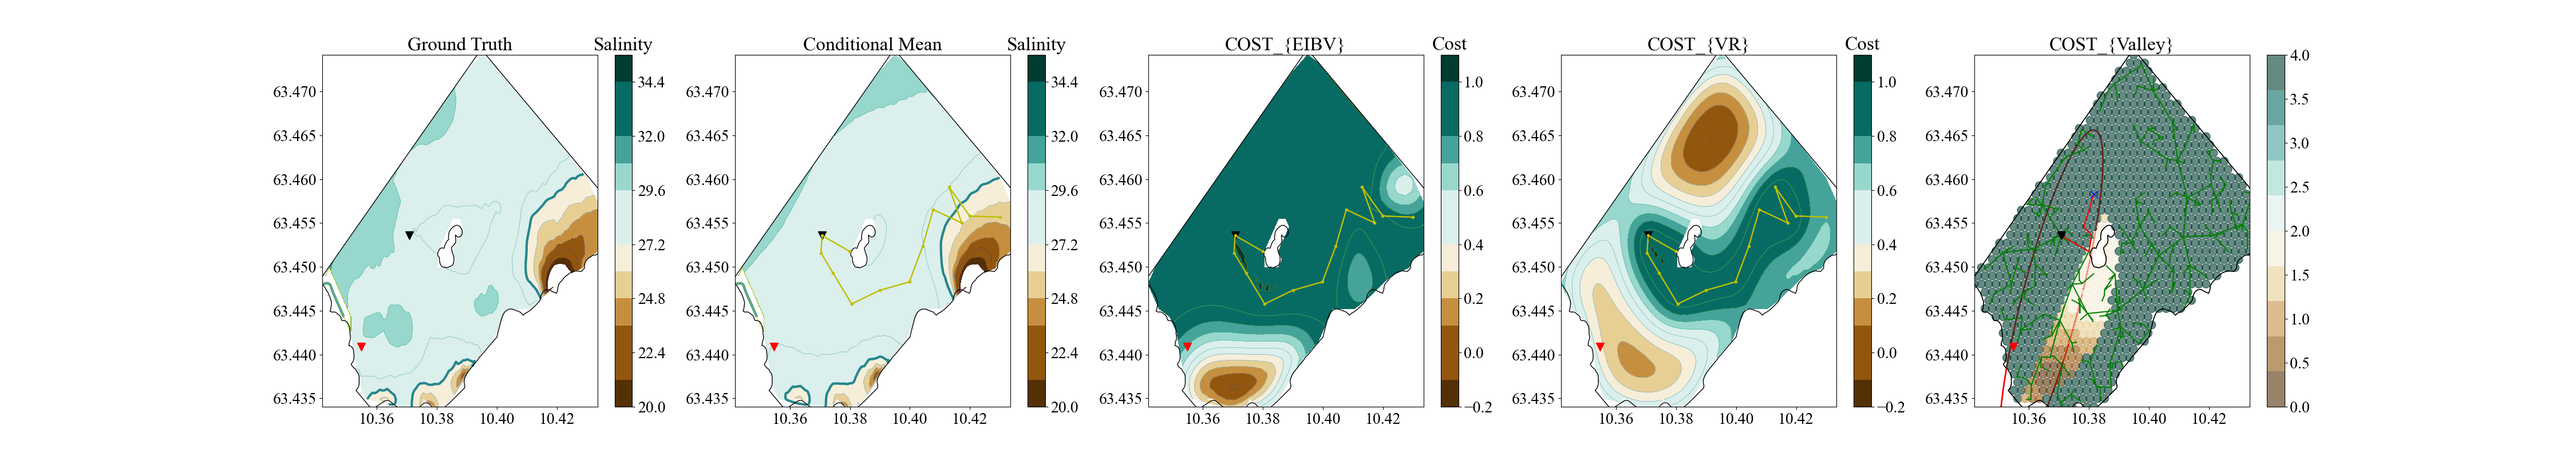
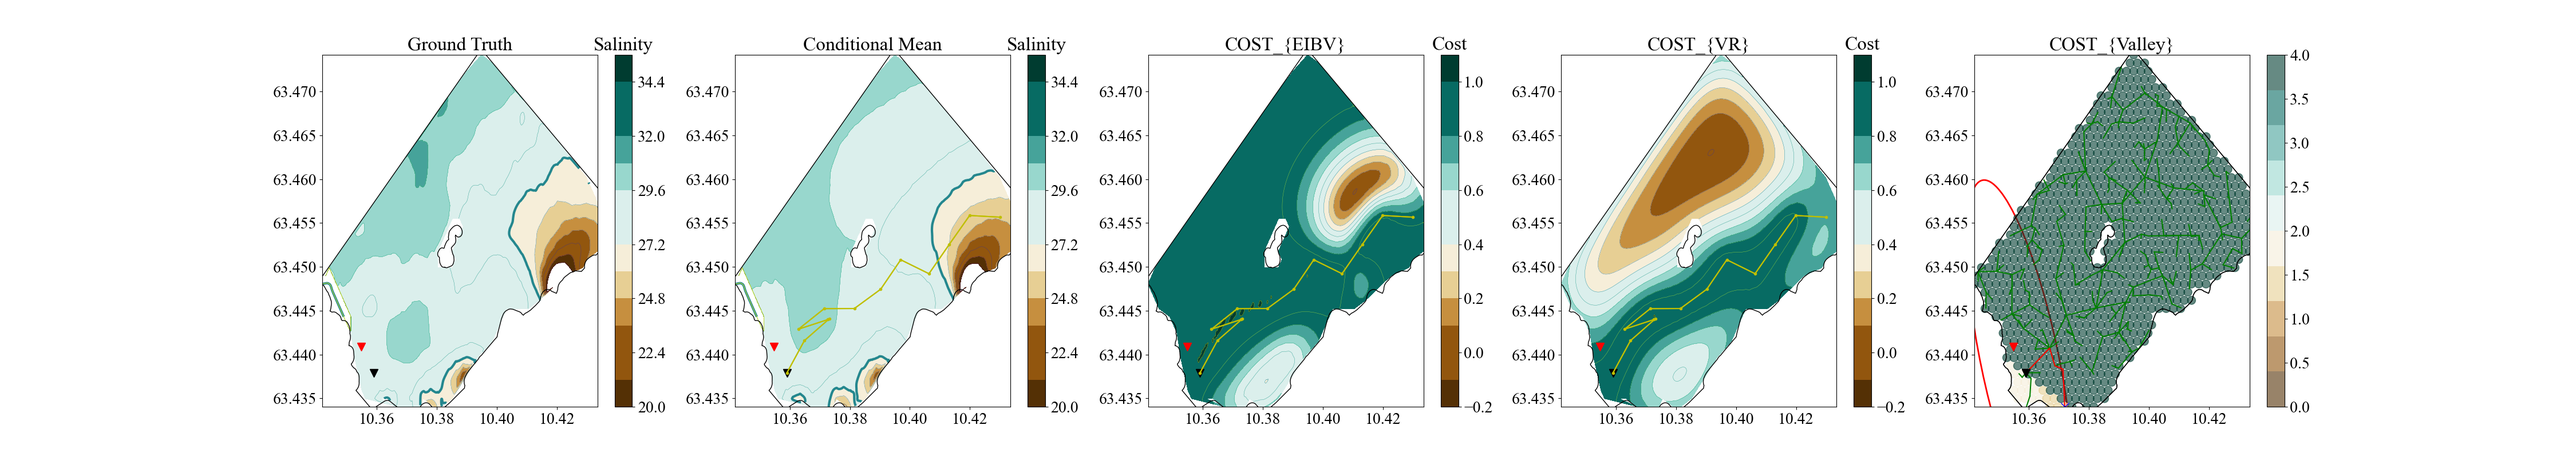
rrt

diff --git a/Simulation_2DNidelva/PlanningStrategies/RRTStar.py b/Simulation_2DNidelva/PlanningStrategies/RRTStar.py
@@ -27,26 +27,35 @@ class RRTStar:
 
     def expand_trees(self):
         self.nodes.append(self.starting_node)
-        t1 = time.time()
+        ts = time.time()
         for i in range(self.knowledge.maximum_iteration):
-            # print("iteration: ", i)
+            print("iteration: ", i)
+            t1 = time.time()
             if np.random.rand() <= self.knowledge.goal_sample_rate:
                 new_location = self.knowledge.ending_location
             else:
-                if self.knowledge.budget_ellipse_b < BUDGET_ELLIPSE_B_MARGIN_Tree:
-                    # print("Here comes new sampling distribution!")
-                    new_location = self.get_new_location_within_budget_ellipse()
-                    self.radius_neighbour = RADIUS_NEIGHBOUR
-                else:
-                    new_location = self.get_new_location()
+                # if self.knowledge.budget_ellipse_b < BUDGET_ELLIPSE_B_MARGIN_Tree:
+                #     # print("Here comes new sampling distribution!")
+                #     new_location = self.get_new_location_within_budget_ellipse()
+                #     self.radius_neighbour = RADIUS_NEIGHBOUR
+                # else:
+                new_location = self.get_new_location()
+            t2 = time.time()
+            print("I - getting new location takes: ", t2 - t1)
 
+            t1 = time.time()
             nearest_node = self.get_nearest_node(self.nodes, new_location)
             next_node = self.get_next_node(nearest_node, new_location)
+            t2 = time.time()
+            print("II - steering takes: ", t2 - t1)
 
             if self.is_node_within_obstacle(next_node):
                 continue
 
+            t1 = time.time()
             next_node, nearest_node = self.rewire_tree(next_node, nearest_node)
+            t2 = time.time()
+            print("III - rewiring takes: ", t2 - t1)
 
             if self.is_path_intersect_with_obstacles(nearest_node, next_node):
                 continue
@@ -55,8 +64,8 @@ class RRTStar:
                 self.ending_node.parent = next_node
             else:
                 self.nodes.append(next_node)
-        t2 = time.time()
-        print("Finished tree expansion, time consumed: ", t2 - t1)
+        te = time.time()
+        print("Finished tree expansion, time consumed: ", te - ts)
 
     def get_bigger_box(self):
         self.box_lat_min, self.box_lon_min = map(np.amin, [self.knowledge.polygon_border[:, 0],
@@ -148,8 +157,8 @@ class RRTStar:
 
     def get_cost_between_nodes(self, node1, node2):
         cost = (node1.cost +
-                self.get_distance_between_nodes(node1, node2) +
-                self.get_cost_from_cost_valley(node1, node2))
+                self.get_distance_between_nodes(node1, node2))
+                # self.get_cost_from_cost_valley(node1, node2))
         return cost
 
     def get_cost_from_cost_valley(self, node1, node2):
@@ -202,6 +211,7 @@ class RRTStar:
         self.trajectory = np.array(self.trajectory)
 
     def plot_tree(self):
+        print("Here comes the plotting")
         plt.plot(self.knowledge.polygon_border[:, 1], self.knowledge.polygon_border[:, 0], 'k-', linewidth=1)
         plt.plot(self.knowledge.polygon_obstacle[:, 1], self.knowledge.polygon_obstacle[:, 0], 'k-', linewidth=1)
         for node in self.nodes:
@@ -212,17 +222,18 @@ class RRTStar:
         plt.plot(trajectory[:, 1], trajectory[:, 0], "-r")
         plt.plot(self.knowledge.starting_location.lon, self.knowledge.starting_location.lat, 'kv', ms=10)
         plt.plot(self.knowledge.ending_location.lon, self.knowledge.ending_location.lat, 'bx', ms=10)
-        budget_ellipse_lat_max, budget_ellipse_lon_max = xy2latlon(self.knowledge.budget_ellipse_b,
-                                                                   self.knowledge.budget_ellipse_a,
-                                                                   self.knowledge.budget_middle_location.lat,
-                                                                   self.knowledge.budget_middle_location.lon)
-        width = 2 * (budget_ellipse_lon_max - self.knowledge.budget_middle_location.lon)
-        height = 2 * (budget_ellipse_lat_max - self.knowledge.budget_middle_location.lat)
-        middle_location = self.knowledge.budget_middle_location
-        ellipse = Ellipse(xy=(middle_location.lon, middle_location.lat), width=width, height=height,
-                          angle=math.degrees(self.knowledge.budget_ellipse_angle),
-                          edgecolor='r', fc='None', lw=2)
-        plt.gca().add_patch(ellipse)
+
+        # budget_ellipse_lat_max, budget_ellipse_lon_max = xy2latlon(self.knowledge.budget_ellipse_b,
+        #                                                            self.knowledge.budget_ellipse_a,
+        #                                                            self.knowledge.budget_middle_location.lat,
+        #                                                            self.knowledge.budget_middle_location.lon)
+        # width = 2 * (budget_ellipse_lon_max - self.knowledge.budget_middle_location.lon)
+        # height = 2 * (budget_ellipse_lat_max - self.knowledge.budget_middle_location.lat)
+        # middle_location = self.knowledge.budget_middle_location
+        # ellipse = Ellipse(xy=(middle_location.lon, middle_location.lat), width=width, height=height,
+        #                   angle=math.degrees(self.knowledge.budget_ellipse_angle),
+        #                   edgecolor='r', fc='None', lw=2)
+        # plt.gca().add_patch(ellipse)
         # plt.grid(which='minor', alpha=0.2)
         # plt.title("rrt*")
         # plt.savefig(FIGPATH + "T_{:04d}.png".format(self.counter_fig))

diff --git a/Simulation_2DSquare/PlanningStrategies/RRTStar.py b/Simulation_2DSquare/PlanningStrategies/RRTStar.py
@@ -36,12 +36,12 @@ class RRTStar:
             if np.random.rand() <= self.knowledge.goal_sample_rate:
                 new_location = self.knowledge.ending_location
             else:
-                if self.knowledge.gp_kernel.budget_ellipse_b < BUDGET_ELLIPSE_B_MARGIN_Tree:
-                    # print("Here comes new sampling distribution!")
-                    new_location = self.get_new_location_within_budget_ellipse()
-                    self.radius_neighbour = RADIUS_NEIGHBOUR
-                else:
-                    new_location = self.get_new_location()
+                # if self.knowledge.gp_kernel.budget_ellipse_b < BUDGET_ELLIPSE_B_MARGIN_Tree:
+                #     # print("Here comes new sampling distribution!")
+                #     new_location = self.get_new_location_within_budget_ellipse()
+                #     self.radius_neighbour = RADIUS_NEIGHBOUR
+                # else:
+                new_location = self.get_new_location()
 
             nearest_node = self.get_nearest_node(self.nodes, new_location)
             next_node = self.get_next_node(nearest_node, new_location)
@@ -139,8 +139,8 @@ class RRTStar:
 
     def get_cost_between_nodes(self, node1, node2):
         cost = (node1.cost +
-                self.get_distance_between_nodes(node1, node2) +
-                self.get_cost_from_cost_valley(node1, node2))
+                self.get_distance_between_nodes(node1, node2))
+                # self.get_cost_from_cost_valley(node1, node2))
         return cost
 
     def get_cost_from_cost_valley(self, node1, node2):

diff --git a/Simulation_2DNidelva/Test/PlanningStrategies/test_rrt*.py b/Simulation_2DNidelva/Test/PlanningStrategies/test_rrt*.py
@@ -1,4 +1,4 @@
-
+import os
 
 from GOOGLE.Simulation_2DNidelva.PlanningStrategies.RRTStar import RRTStar
 from GOOGLE.Simulation_2DNidelva.Tree.Knowledge import Knowledge
@@ -6,11 +6,11 @@ from GOOGLE.Simulation_2DNidelva.Tree.Location import Location
 from usr_func import *
 
 
-PATH_OPERATION_AREA = "/Users/yaoling/OneDrive - NTNU/MASCOT_PhD/Projects/GOOGLE/Simulation_2DNidelva/Config/Polygon_border.csv"
-PATH_MUNKHOLMEN = "/Users/yaoling/OneDrive - NTNU/MASCOT_PhD/Projects/GOOGLE/Simulation_2DNidelva/Config/Polygon_obstacle.csv"
+PATH_OPERATION_AREA = os.getcwd() + "/GOOGLE/Simulation_2DNidelva/Config/Polygon_border.csv"
+PATH_MUNKHOLMEN = os.getcwd() + "/GOOGLE/Simulation_2DNidelva/Config/Polygon_obstacle.csv"
 DISTANCE_STEPSIZE = 500
 DISTANCE_TOLERANCE = 500
-DISTANCE_NEIGHBOUR = 600
+DISTANCE_NEIGHBOUR = 500
 GOAL_SAMPLE_RATE = .01
 MAX_ITER = 400
 BUDGET = 6000
@@ -24,7 +24,7 @@ ending_location = Location(63.455674, 10.429927)
 knowledge = Knowledge(starting_location=starting_location, ending_location=ending_location, goal_location=ending_location,
                       goal_sample_rate=GOAL_SAMPLE_RATE, polygon_border=polygon_border, polygon_obstacle=polygon_obstacle,
                       step_size=DISTANCE_STEPSIZE, maximum_iteration=MAX_ITER, distance_neighbour_radar=DISTANCE_NEIGHBOUR,
-                      distance_tolerance=DISTANCE_TOLERANCE, budget=BUDGET, gp_kernel=None)
+                      distance_tolerance=DISTANCE_TOLERANCE, budget=BUDGET)
 
 rrtstar = RRTStar(knowledge)
 rrtstar.expand_trees()

diff --git a/Simulation_2DSquare/Test/test_rrt*.py b/Simulation_2DSquare/Test/test_rrt*.py
@@ -21,19 +21,17 @@ class PathPlanner:
     trajectory = []
 
     def __init__(self, starting_location=None, ending_location=None):
-        self.gp = GPKernel()
-        self.gp.get_eibv_field()
+        # self.gp = GPKernel()
+        # self.gp.get_eibv_field()
         self.starting_location = starting_location
         self.ending_location = ending_location
-        self.knowledge = Knowledge()
+        # self.knowledge = Knowledge()
         # self.knowledge = Knowledge(self.gp.mu_prior_vector, self.gp.Sigma_prior)
         pass
 
     def run(self):
         self.knowledge = Knowledge(starting_location=self.starting_location, ending_location=self.ending_location,
-                              goal_sample_rate=GOAL_SAMPLE_RATE, step_size=STEPSIZE, budget=BUDGET,
-                              mu=self.gp.mu_prior_vector, Sigma=self.gp.Sigma_prior)
-        # self.knowledge.cost_valley =
+                              goal_sample_rate=GOAL_SAMPLE_RATE, step_size=STEPSIZE, budget=BUDGET)
         self.rrt = RRTStar(self.knowledge)
         self.rrt.expand_trees()
         self.rrt.get_shortest_trajectory()
@@ -46,14 +44,6 @@ if __name__ == "__main__":
     ending_loc = Location(.1, .75)
     p = PathPlanner(starting_loc, ending_loc)
     p.run()
-#%%
 
-plt.figure()
-ellipse = Ellipse(xy=(0, 0), width=2, height=1,
-                  angle=180, edgecolor='r', fc='None', lw=2)
-plt.gca().add_patch(ellipse)
-plt.xlim(-2, 2)
-plt.ylim(-2, 2)
-plt.show()
 
 

diff --git a/Simulation_2DNidelva/Config/Config.py b/Simulation_2DNidelva/Config/Config.py
@@ -4,6 +4,8 @@ Author: Yaolin Ge
 Contact: yaolin.ge@ntnu.no
 Date: 2022-03-16
 """
+import os
+
 
 # == GP kernel
 SIGMA = .6
@@ -39,8 +41,8 @@ PENALTY = 10
 # == Path planner
 BUDGET = 8000 # [m]
 NUM_STEPS = 80
-FIGPATH = "/Users/yaoling/OneDrive - NTNU/MASCOT_PhD/Projects/GOOGLE/fig/Sim_2DNidelva/"
-FILEPATH = "/Users/yaoling/OneDrive - NTNU/MASCOT_PhD/Projects/GOOGLE/Simulation_2DNidelva/"
+FIGPATH = os.getcwd() + "/GOOGLE/fig/Sim_2DNidelva/"
+FILEPATH = os.getcwd() + "/GOOGLE/Simulation_2DNidelva/"
 # PATH_BORDER = PATH_FILE + "Config/OpArea.csv"
 # PATH_OBSTACLE = PATH_FILE + "Config/Munkholmen.csv"
 PATH_BORDER = FILEPATH + "Config/Polygon_border.csv"
@@ -52,7 +54,7 @@ PATH_GRID = FILEPATH + "Field/Grid/Grid.csv"
 # == PLotting
 from matplotlib.cm import get_cmap
 CMAP = get_cmap("BrBG", 10)
-PATH_REPLICATES = "/Users/yaoling/OneDrive - NTNU/MASCOT_PhD/Projects/GOOGLE/fig/Sim_2DNidelva/Replicates/"
+PATH_REPLICATES = os.getcwd() + "/GOOGLE/fig/Sim_2DNidelva/Replicates/"
 # ==
 
 
